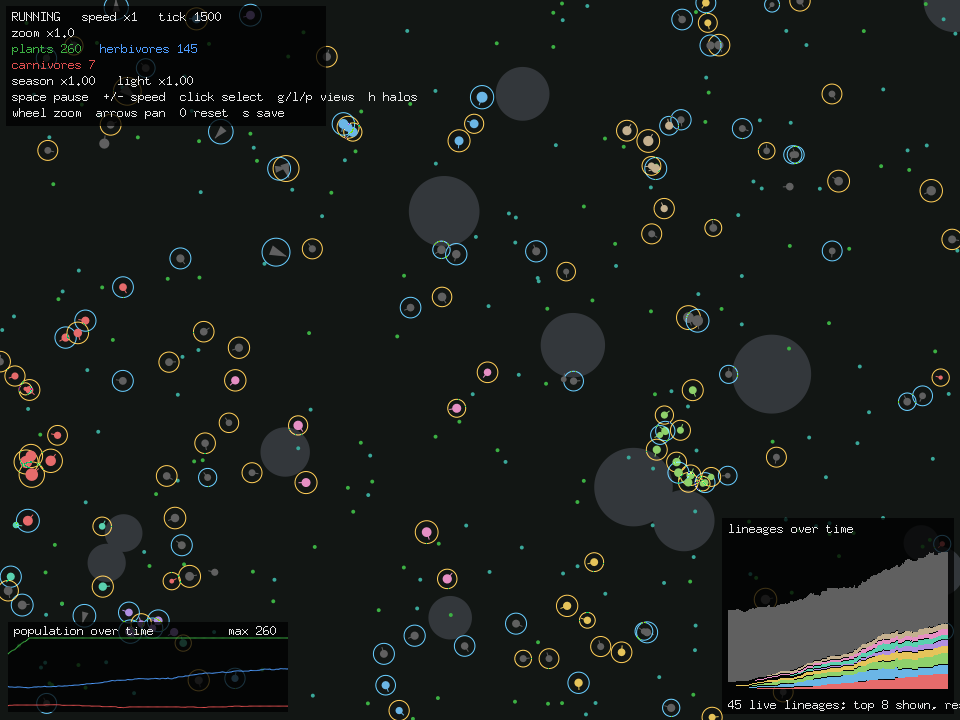
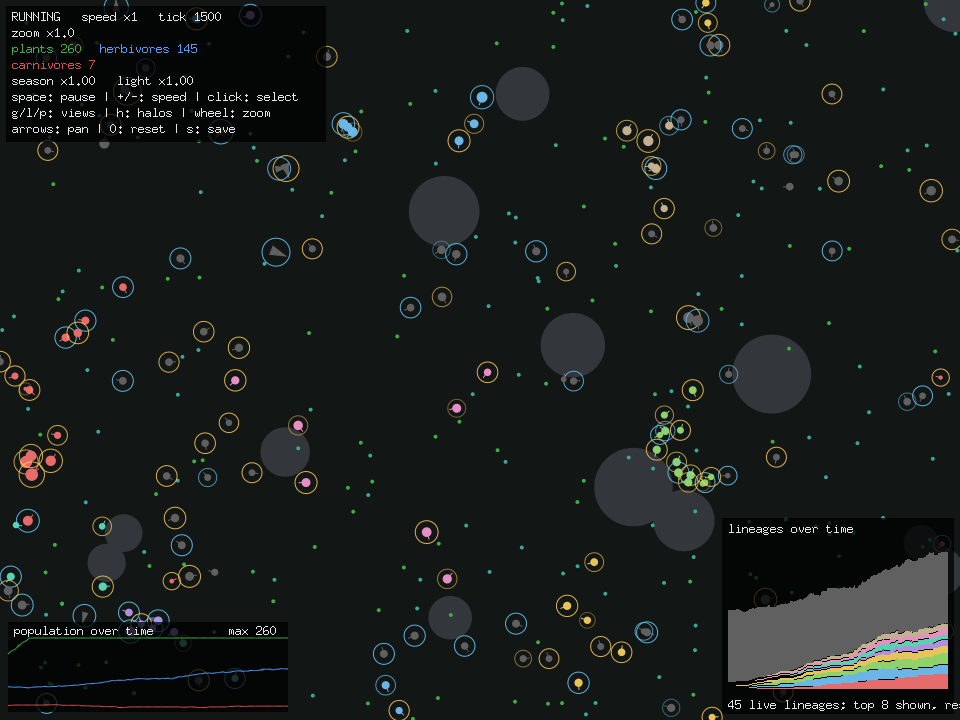
refactor(gui): wrap the control hints through crucible/keymap
The hints were two fixed lines that no longer fitted: the first ran 406px
of text through a 296px panel, spilling past the backing. They were also
the last place in the app still formatting the family's control scheme by
hand.

Describe them as keymap.Binding values and let keymap.Rows format and wrap
them to the panel's width; the panel grows to fit however many rows that
takes. Rows is BottomBar's layout without its placement, which is what
vivarium needs — the bottom-left corner belongs to the population graph.

Media regenerated.

diff --git a/internal/gui/frame.go b/internal/gui/frame.go
@@ -6,6 +6,7 @@ import (
 
 	"github.com/danielriddell21/crucible/canvas"
 	"github.com/danielriddell21/crucible/geom"
+	"github.com/danielriddell21/crucible/keymap"
 
 	"github.com/danielriddell21/vivarium/internal/sim"
 )
@@ -149,13 +150,40 @@ func drawAgentTo(c *canvas.Canvas, a *sim.Agent, st SceneState) {
 	c.Line(ax, ay, nx, ny, 1, body)
 }
 
+// controls is vivarium's control scheme. crucible/keymap formats and wraps it
+// to the stats panel, so it reads "key: action" like every other app's and
+// stops running past the panel edge as it did when it was two fixed lines.
+var controls = []keymap.Binding{
+	{Key: "space", Action: "pause"},
+	{Key: "+/-", Action: "speed"},
+	{Key: "click", Action: "select"},
+	{Key: "g/l/p", Action: "views"},
+	{Key: "h", Action: "halos"},
+	{Key: "wheel", Action: "zoom"},
+	{Key: "arrows", Action: "pan"},
+	{Key: "0", Action: "reset"},
+	{Key: "s", Action: "save"},
+}
+
+// The stats panel's geometry. It sits at statsX,statsY and grows downward to
+// fit however many rows the controls wrap onto.
+const (
+	statsX, statsY = 6.0, 6.0
+	statsW         = 320.0
+	statsInset     = 6.0  // text inset from the panel edge
+	statsLineH     = 16   // one row of text
+	statsHintsY    = 90.0 // where the control rows start
+	statsFooter    = 4.0  // gap below the last row
+)
+
 func drawStats(c *canvas.Canvas, w *sim.World, st SceneState) {
 	counts := w.CountKinds()
 	state := "RUNNING"
 	if st.Paused {
 		state = "PAUSED"
 	}
-	panel(c, 6, 6, 320, 120)
+	rows := keymap.Rows(controls, statsW-2*statsInset, func(s string) int { return len(s) * canvas.GlyphWidth })
+	panel(c, statsX, statsY, statsW, statsHintsY-statsY+float64(len(rows))*statsLineH+statsFooter)
 	line := func(x, y int, s string, col color.RGBA) { c.Text(x, y+textAscent, s, col) }
 	line(12, 10, fmt.Sprintf("%s   speed x%d   tick %d", state, st.Speed, w.Tick), colText)
 	// A still has no frame rate to report, so it shows the zoom alone rather
@@ -169,8 +197,9 @@ func drawStats(c *canvas.Canvas, w *sim.World, st SceneState) {
 	line(100, 42, fmt.Sprintf("herbivores %d", counts.Herbivores), colHerbivore)
 	line(12, 58, fmt.Sprintf("carnivores %d", counts.Carnivores), colCarnivore)
 	line(12, 74, fmt.Sprintf("season x%.2f   light x%.2f", w.SeasonFactor(), w.LightFactor()), colText)
-	line(12, 90, "space pause  +/- speed  click select  g/l/p views  h halos", colText)
-	line(12, 106, "wheel zoom  arrows pan  0 reset  s save", colText)
+	for i, r := range rows {
+		line(int(statsX+statsInset), int(statsHintsY)+i*statsLineH, r, colText)
+	}
 }
 
 func drawPopulationGraph(c *canvas.Canvas, w *sim.World) {
